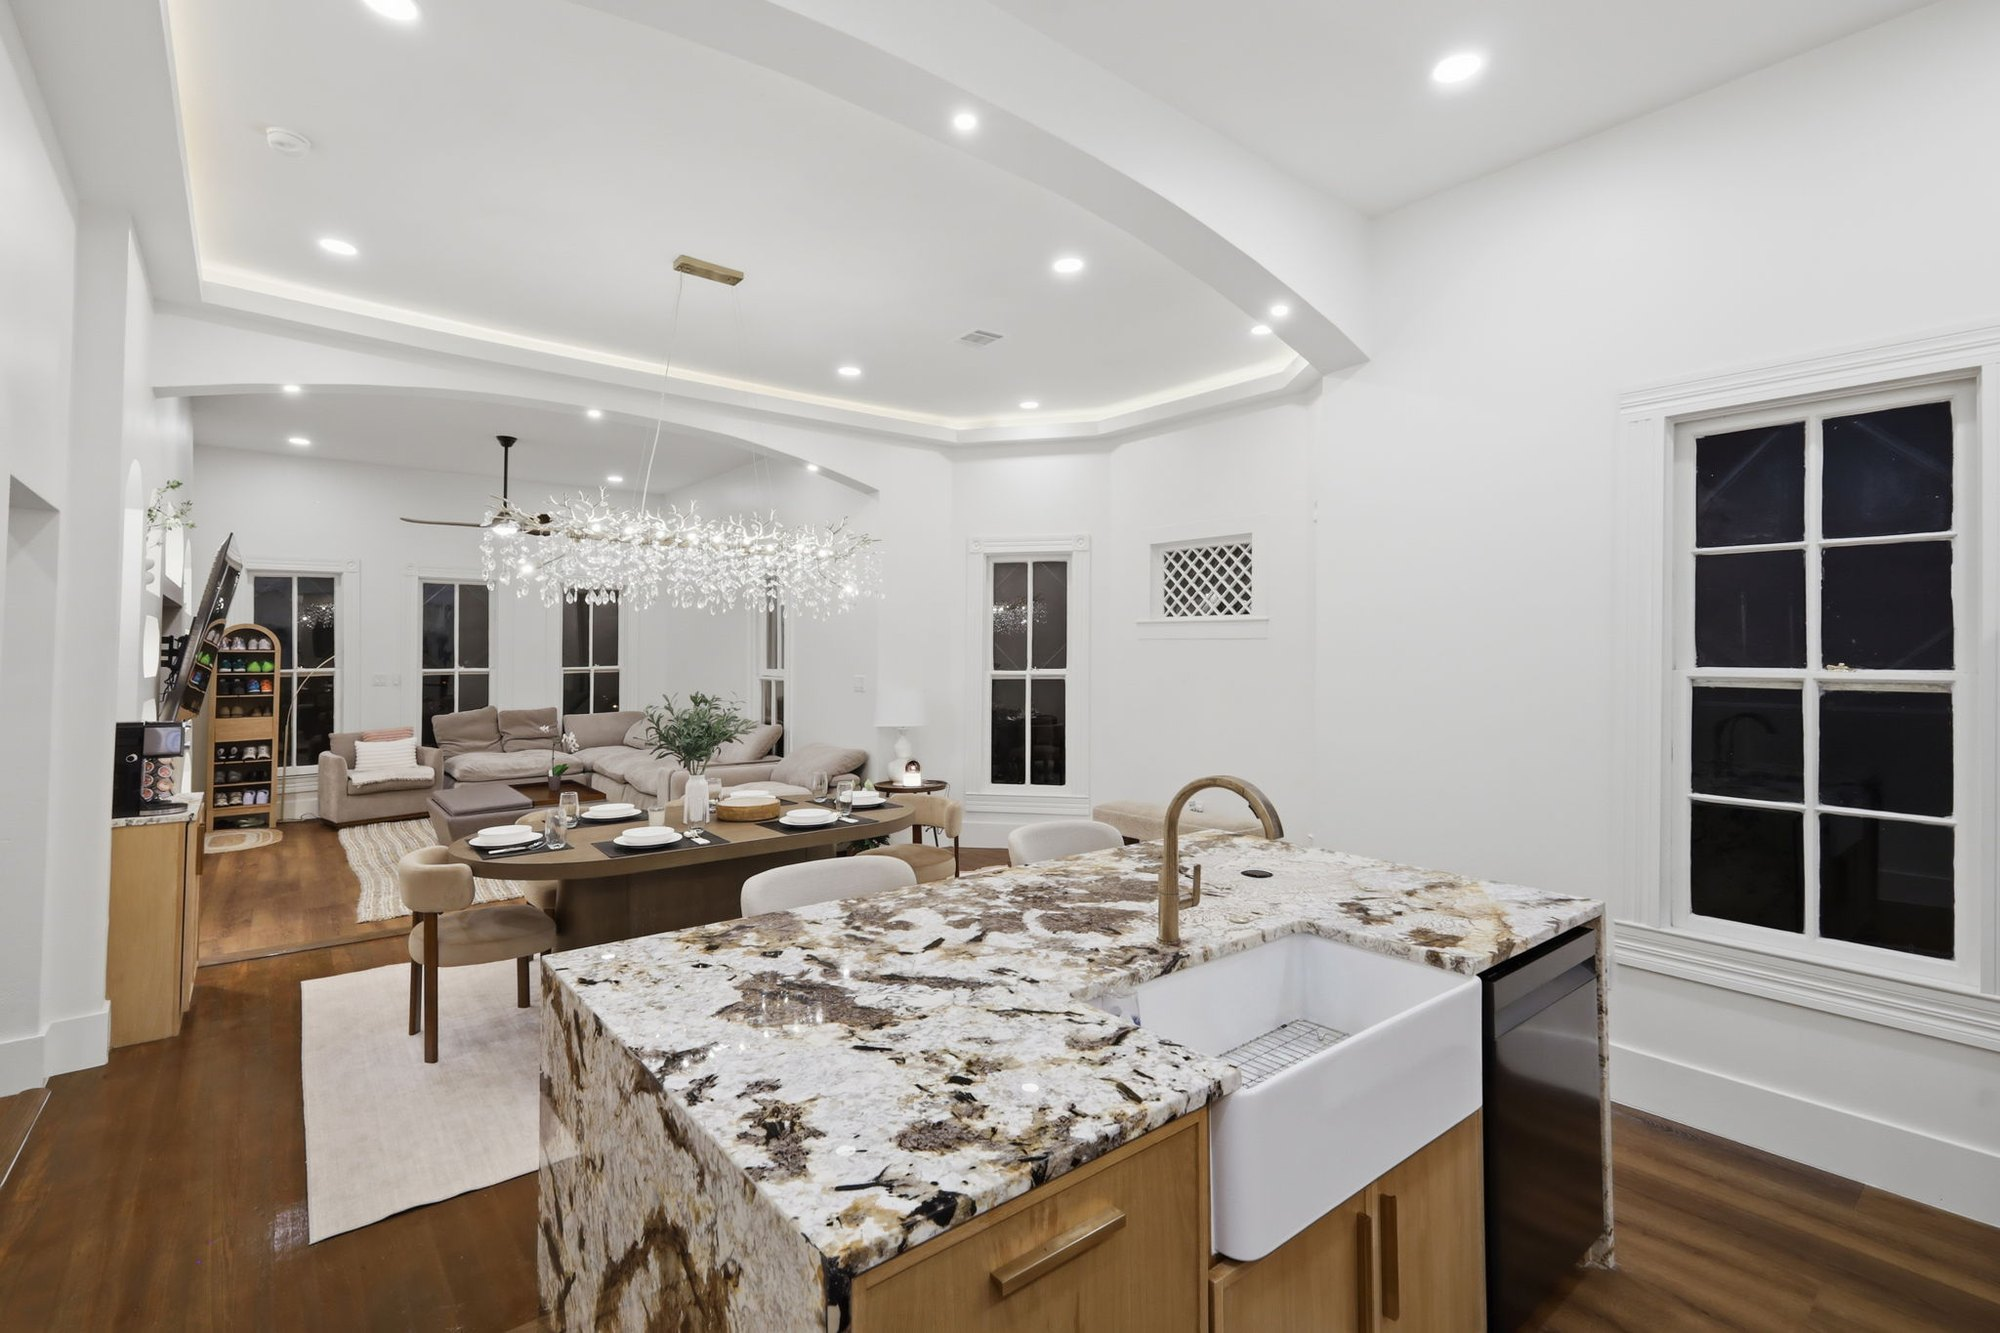
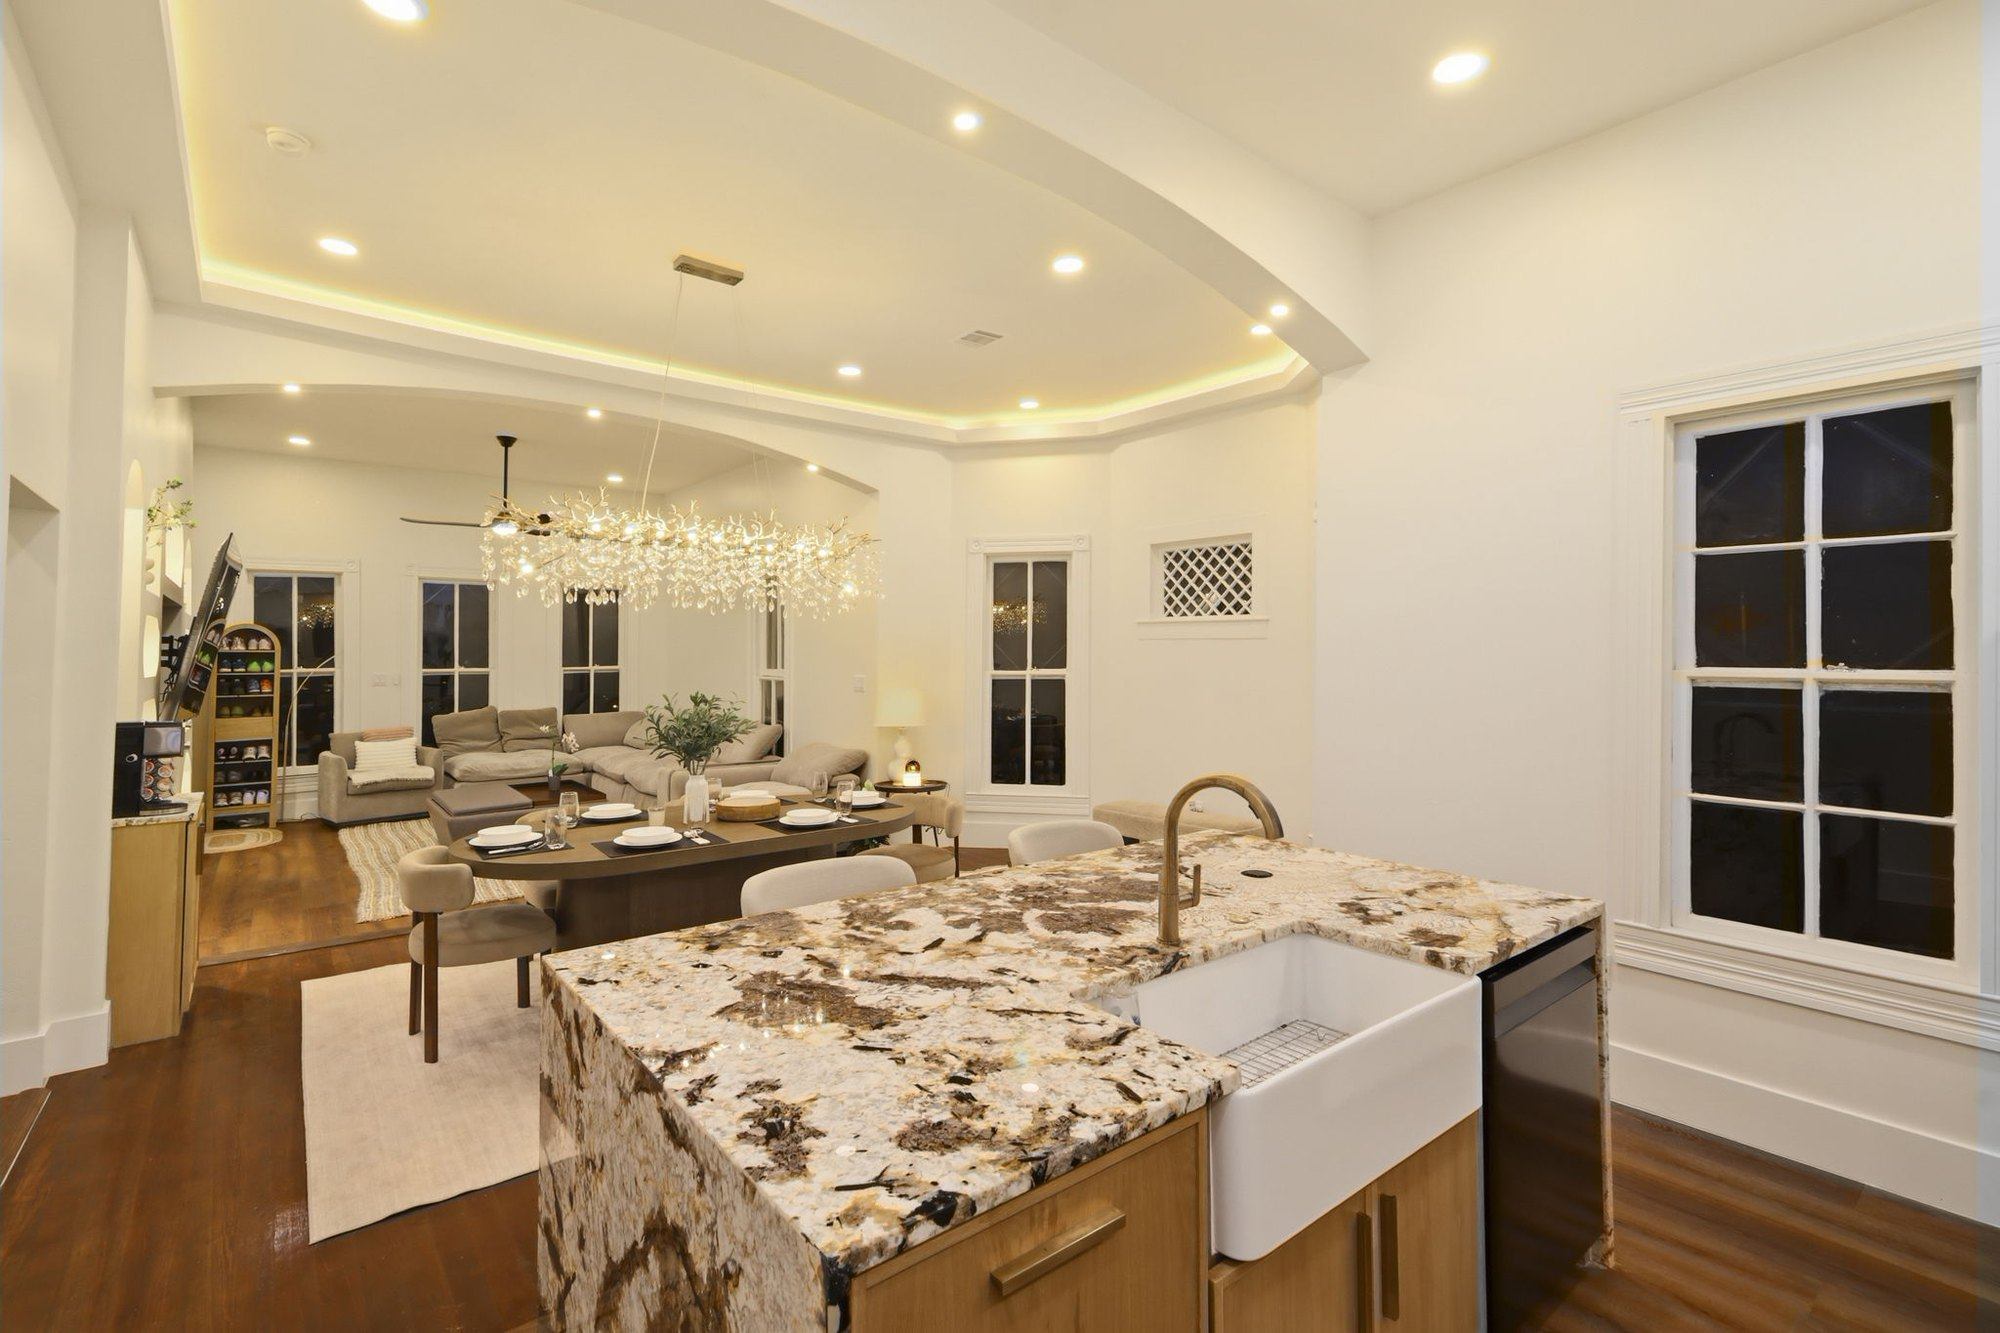
Rebuild the Dignowity gallery warm-only and redo the hero patch
Three things Christian called out.

TONE. The shoot contains warm and cool exposures of the same rooms, and the
first pass mixed them, so the gallery read inconsistent. Measured red/blue
ratio on every frame and took the warm twin of each room: the living room goes
from 1.21 to 1.46, dining to 1.37, kitchen to 1.37-1.42. Every interior is now
above 1.36.

The two bathroom frames are gone. Every landscape bathroom shot in the shoot
measures around 1.0 - the grey marble photographs cool no matter the exposure -
and the only warm ones are portrait, which the 3:2 grid would crop badly. Two
cold frames in an otherwise warm set were the one thing still breaking it.

POOL. Four pool frames now instead of two, all shot at dusk so the house glows
warm behind the water: pool and spa, the rock waterfall lit, the raised deck at
sunset, and the poolside dining set.

THE HERO PATCH. The first attempt sampled siding next to the corner trim and
tiled it sideways, which read as a column - he was right. Redone properly:
measured the clapboard pitch by autocorrelation (15px), then copied a 90px
band - exactly six boards - from 150px below, so the lines land in phase and
run straight through. Verified at 2x: the patch is invisible.

Sixteen images, down from nineteen, and the group "Bedrooms and baths" is now
just "Bedrooms" since the baths are out.

Claude-Session: https://claude.ai/code/session_01XBFXuv97DrnbKTJWKgheeo

diff --git a/app/projects/dignowity-hill-historic-renovation/page.js b/app/projects/dignowity-hill-historic-renovation/page.js
@@ -21,26 +21,25 @@ export const metadata = {
 };
 
 const PHOTOS = [
-  { src: "/dignowity-front-elevation-twilight.jpg", alt: "Dignowity Hill historic home renovation at twilight, San Antonio", w: 2000, h: 1342, group: "Exterior" },
+  { src: "/dignowity-front-elevation-twilight.jpg", alt: "Dignowity Hill historic home renovation lit at twilight, San Antonio", w: 2000, h: 1342, group: "Exterior" },
   { src: "/dignowity-front-porch-detail.jpg", alt: "Wraparound front porch with bench seating and the original leaded-glass door, Dignowity Hill, San Antonio", w: 2000, h: 1333, group: "Exterior" },
-  { src: "/dignowity-porch-twilight.jpg", alt: "Wraparound porch seating at the Dignowity Hill house in the evening", w: 2000, h: 1342, group: "Exterior" },
-  { src: "/dignowity-living-room.jpg", alt: "Open living room with built-in media wall at the Dignowity Hill house", w: 2000, h: 1333, group: "Living and kitchen" },
-  { src: "/dignowity-living-dining-open-plan.jpg", alt: "Open plan living and dining area with chandelier at the Dignowity Hill house", w: 2000, h: 1333, group: "Living and kitchen" },
+  { src: "/dignowity-porch-twilight.jpg", alt: "Side porch looking out to the street at dusk, warm light through the windows", w: 2000, h: 1342, group: "Exterior" },
+  { src: "/dignowity-living-room.jpg", alt: "Open living room with a built-in media wall and lit display niches", w: 2000, h: 1333, group: "Living and kitchen" },
+  { src: "/dignowity-living-dining-open-plan.jpg", alt: "Living and dining areas open to each other under a sculptural chandelier", w: 2000, h: 1333, group: "Living and kitchen" },
   { src: "/dignowity-dining-kitchen.jpg", alt: "Dining area looking through to the kitchen at the Dignowity Hill house", w: 2000, h: 1332, group: "Living and kitchen" },
-  { src: "/dignowity-kitchen-island.jpg", alt: "Kitchen with waterfall granite island and custom cabinetry at the Dignowity Hill house", w: 2000, h: 1333, group: "Living and kitchen" },
-  { src: "/dignowity-granite-detail.jpg", alt: "Close view of the waterfall granite island in the Dignowity Hill house kitchen", w: 2000, h: 1332, group: "Living and kitchen" },
-  { src: "/dignowity-kitchen-sink-range.jpg", alt: "Kitchen island with farmhouse sink and range at the Dignowity Hill house", w: 2000, h: 1333, group: "Living and kitchen" },
-  { src: "/dignowity-primary-bedroom.jpg", alt: "Primary bedroom at the Dignowity Hill house with natural light", w: 2000, h: 1341, group: "Bedrooms and baths" },
-  { src: "/dignowity-bedroom-pool-view.jpg", alt: "Guest bedroom with layered bedding and natural light at the Dignowity Hill house", w: 2000, h: 1341, group: "Bedrooms and baths" },
-  { src: "/dignowity-primary-bath-stone.jpg", alt: "Primary bathroom with a marble-clad shower and brass fixtures at the Dignowity Hill house", w: 2000, h: 1333, group: "Bedrooms and baths" },
-  { src: "/dignowity-walk-in-shower.jpg", alt: "Walk-in shower with blue stone tile and brass fixtures at the Dignowity Hill house", w: 2000, h: 1332, group: "Bedrooms and baths" },
-  { src: "/dignowity-double-vanity.jpg", alt: "Double vanity with granite countertop at the Dignowity Hill house", w: 2000, h: 1333, group: "Bedrooms and baths" },
+  { src: "/dignowity-kitchen-island.jpg", alt: "Kitchen with a waterfall granite island and brass fixtures", w: 2000, h: 1333, group: "Living and kitchen" },
+  { src: "/dignowity-granite-detail.jpg", alt: "Waterfall granite island with farmhouse sink, open to the living area", w: 2000, h: 1333, group: "Living and kitchen" },
+  { src: "/dignowity-kitchen-sink-range.jpg", alt: "Kitchen island with farmhouse sink, range and custom oak cabinetry", w: 2000, h: 1333, group: "Living and kitchen" },
+  { src: "/dignowity-primary-bedroom.jpg", alt: "Primary bedroom with layered bedding and warm evening light", w: 2000, h: 1341, group: "Bedrooms" },
+  { src: "/dignowity-bedroom-pool-view.jpg", alt: "Second bedroom with vaulted ceiling and oak flooring", w: 2000, h: 1333, group: "Bedrooms" },
   { src: "/dignowity-pool-twilight.jpg", alt: "Pool and spa lit at dusk with the house and deck behind, Dignowity Hill", w: 2000, h: 1342, group: "Outdoor" },
-  { src: "/dignowity-pool-waterfall.jpg", alt: "Rock waterfall feature on the pool at the Dignowity Hill house", w: 2000, h: 1333, group: "Outdoor" },
-  { src: "/dignowity-back-deck-twilight.jpg", alt: "Back deck and outdoor dining at the Dignowity Hill house in the evening", w: 2000, h: 1342, group: "Outdoor" },
+  { src: "/dignowity-pool-waterfall.jpg", alt: "Rock waterfall and spa lit at dusk beside the pool", w: 2000, h: 1342, group: "Outdoor" },
+  { src: "/dignowity-pool-deck-dusk.jpg", alt: "Pool and raised deck at sunset under the mature oak", w: 2000, h: 1342, group: "Outdoor" },
+  { src: "/dignowity-pool-patio-dusk.jpg", alt: "Poolside patio dining set beside the spa and rock waterfall", w: 2000, h: 1342, group: "Outdoor" },
+  { src: "/dignowity-back-deck-twilight.jpg", alt: "Rear deck seating with warm light through the windows in the evening", w: 2000, h: 1342, group: "Outdoor" },
 ];
 
-const GROUPS = ["Exterior", "Living and kitchen", "Bedrooms and baths", "Outdoor"];
+const GROUPS = ["Exterior", "Living and kitchen", "Bedrooms", "Outdoor"];
 
 export default function DignowityHillPage() {
   return (
